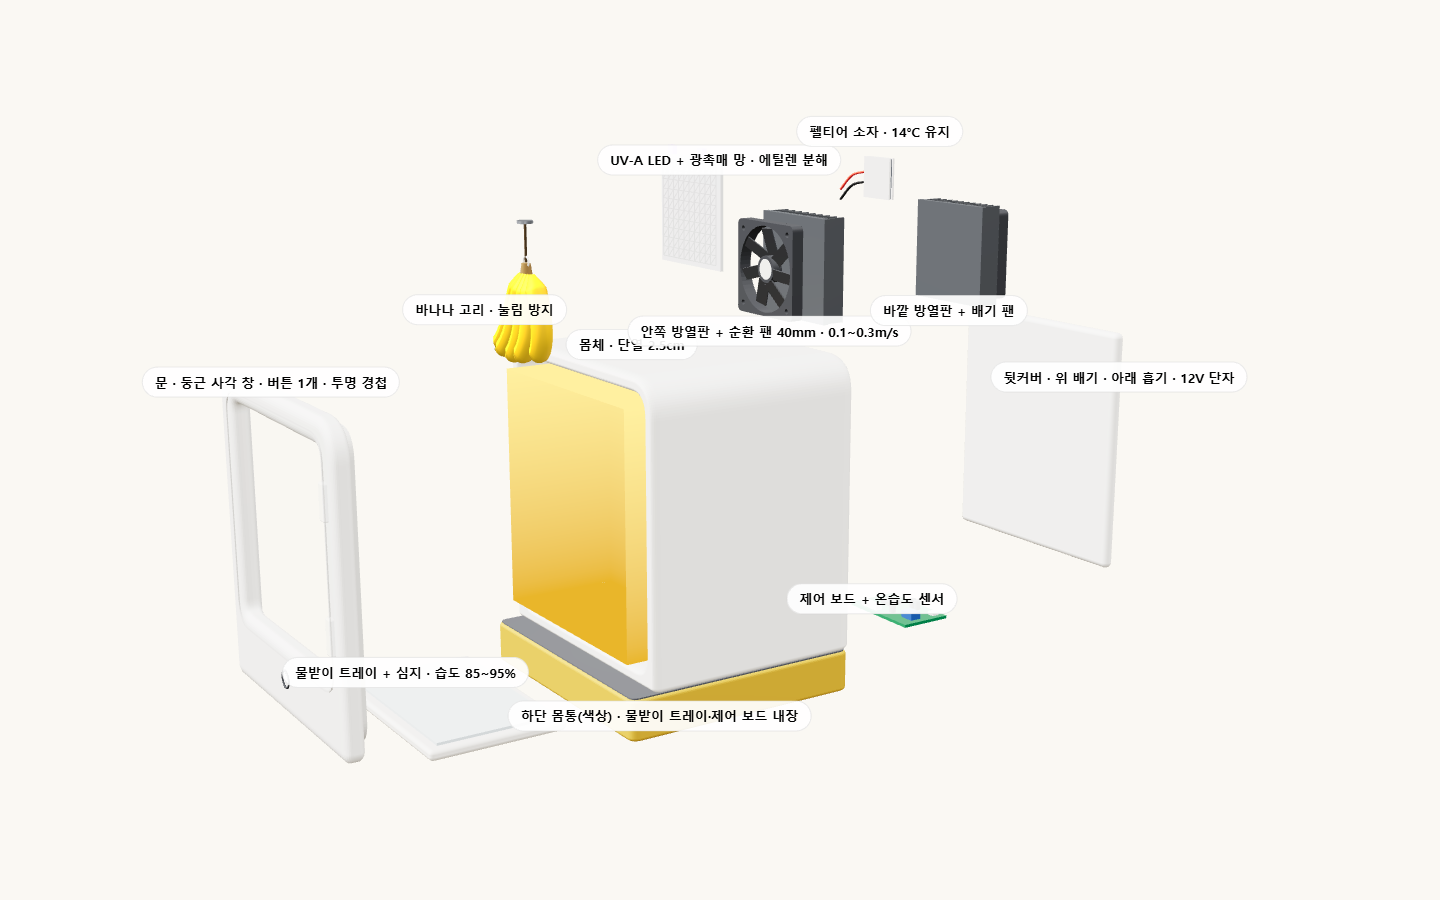
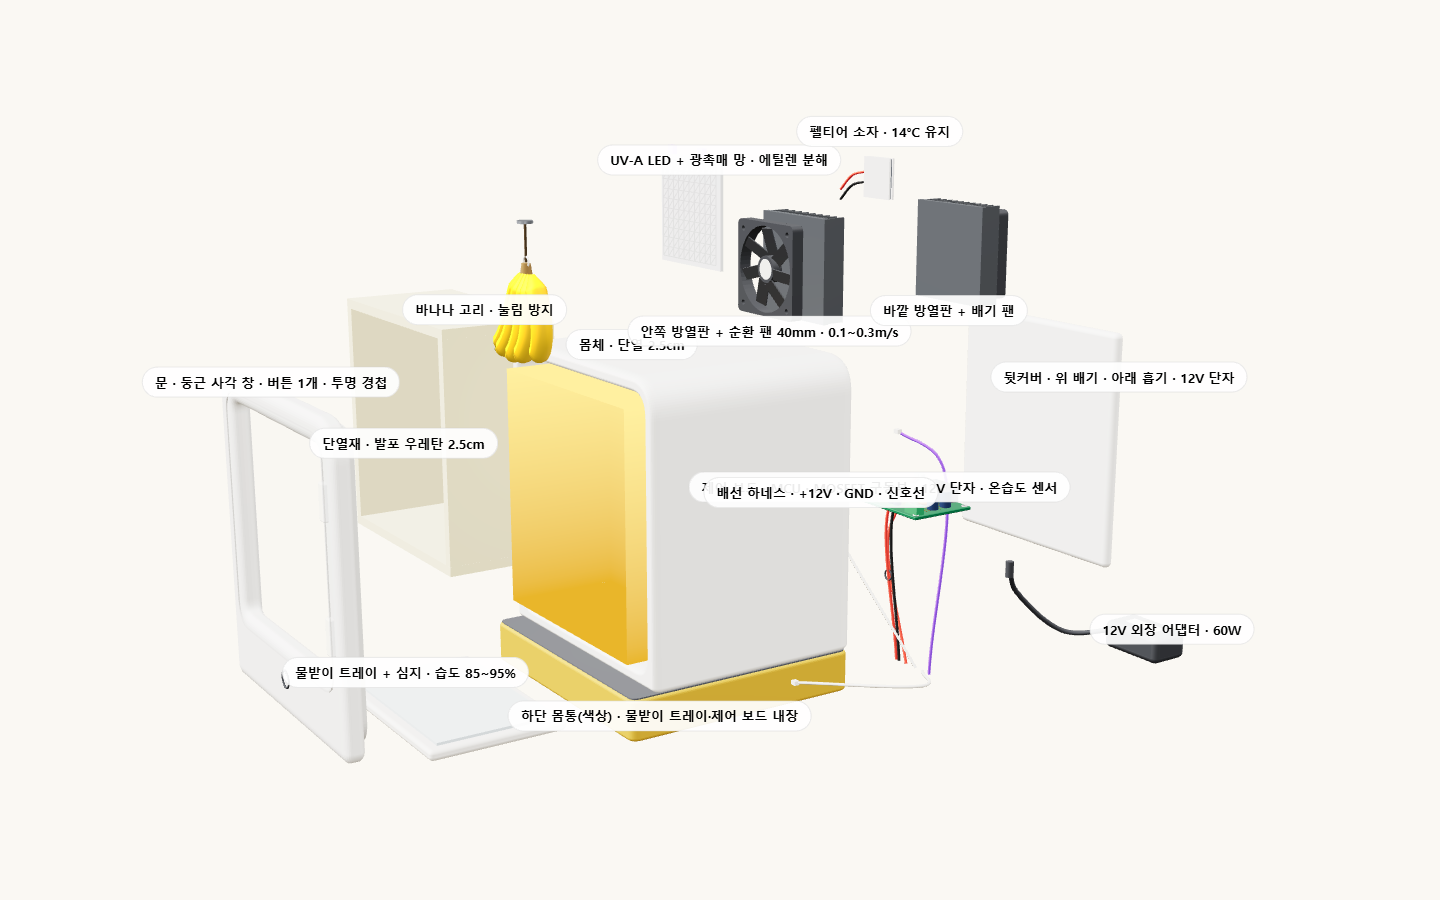
3D 내부: 제어 보드 상세(MCU·MOSFET·방열판·콘덴서·코일·단자대·커넥터·센서), 단열재, 배선 하네스, 12V 어댑터

diff --git a/explode.js b/explode.js
@@ -270,17 +270,107 @@ function fan(size = 0.9, wired = true) {
   g.position.set(0, CY, -D / 2 + 0.06);
   part('뒷커버 · 위 배기 · 아래 흡기 · 12V 단자', g, [0, 0, -3.6], new THREE.Vector3(W / 2 - 0.15, 0.8, 0));
 }
-// 11. 제어 보드 + 온습도 센서
+// 11. 제어 보드 — 실제 기판처럼: 구리 배선, MCU, 전원부(MOSFET+방열판), 콘덴서, 단자대, 커넥터, 온습도 센서
+const PCBM = {
+  board: new THREE.MeshStandardMaterial({ color: 0x1d6b45, roughness: 0.45, metalness: 0.05 }),
+  trace: new THREE.MeshStandardMaterial({ color: 0xc8a24a, roughness: 0.35, metalness: 0.8 }),
+  pad: new THREE.MeshStandardMaterial({ color: 0xd9d9d9, roughness: 0.3, metalness: 0.9 }),
+  ic: new THREE.MeshStandardMaterial({ color: 0x1b1b1d, roughness: 0.5 }),
+  res: new THREE.MeshStandardMaterial({ color: 0xb08a5a, roughness: 0.5 }),
+  cap: new THREE.MeshStandardMaterial({ color: 0x23395d, roughness: 0.4 }),
+  capTop: new THREE.MeshStandardMaterial({ color: 0xcfd3d8, roughness: 0.3, metalness: 0.8 }),
+  term: new THREE.MeshStandardMaterial({ color: 0x2e8b57, roughness: 0.6 }),
+  jst: new THREE.MeshStandardMaterial({ color: 0xf2efe6, roughness: 0.6 }),
+  silk: new THREE.MeshBasicMaterial({ color: 0xf5f5f0 }),
+  ledG: new THREE.MeshStandardMaterial({ color: 0x2bff6a, emissive: 0x18c94a, emissiveIntensity: 1.5 }),
+  coil: new THREE.MeshStandardMaterial({ color: 0xb87333, metalness: 0.7, roughness: 0.35 }),
+  uvw: new THREE.MeshStandardMaterial({ color: 0x8a5cff, roughness: 0.5 }),
+};
+function pcbBoard(w, h) {
+  const g = new THREE.Group();
+  g.add(new THREE.Mesh(new RoundedBoxGeometry(w, h, 0.03, 2, 0.01), PCBM.board));
+  const tr = (x0, y0, x1, y1, t = 0.008) => { const L = Math.hypot(x1 - x0, y1 - y0), m = new THREE.Mesh(new THREE.BoxGeometry(L, t, 0.002), PCBM.trace); m.position.set((x0 + x1) / 2, (y0 + y1) / 2, 0.016); m.rotation.z = Math.atan2(y1 - y0, x1 - x0); g.add(m); };
+  for (let i = 0; i < 9; i++) { const y = -h / 2 + 0.06 + i * (h - 0.12) / 8; tr(-w / 2 + 0.05, y, -0.05, y); tr(-0.05, y, 0.05, y * 0.6); tr(0.05, y * 0.6, w / 2 - 0.08, y * 0.6); }
+  [[-1, -1], [1, -1], [1, 1], [-1, 1]].forEach(([x, y]) => { const r = new THREE.Mesh(new THREE.TorusGeometry(0.022, 0.008, 8, 20), PCBM.pad); r.position.set(x * (w / 2 - 0.04), y * (h / 2 - 0.04), 0.016); g.add(r); });
+  return g;
+}
+{
+  const g = pcbBoard(1.0, 0.62);
+  // MCU (QFP, 사방 핀)
+  const mcu = new THREE.Mesh(new THREE.BoxGeometry(0.14, 0.14, 0.02), PCBM.ic); mcu.position.set(-0.22, 0.08, 0.025); g.add(mcu);
+  for (let i = 0; i < 10; i++) for (const [dx, dy] of [[1, 0], [-1, 0], [0, 1], [0, -1]]) {
+    const pin = new THREE.Mesh(new THREE.BoxGeometry(dx ? 0.025 : 0.005, dx ? 0.005 : 0.025, 0.004), PCBM.pad);
+    const o = -0.06 + i * 0.0133; pin.position.set(-0.22 + (dx ? dx * 0.08 : o), 0.08 + (dy ? dy * 0.08 : o), 0.018); g.add(pin);
+  }
+  const dot = new THREE.Mesh(new THREE.CircleGeometry(0.008, 12), PCBM.silk); dot.position.set(-0.27, 0.13, 0.036); g.add(dot);
+  // 수정 발진자 · 칩 저항/콘덴서
+  const xt = new THREE.Mesh(new RoundedBoxGeometry(0.06, 0.025, 0.02, 2, 0.008), PCBM.pad); xt.position.set(-0.22, -0.04, 0.025); g.add(xt);
+  for (let i = 0; i < 12; i++) { const r = new THREE.Mesh(new THREE.BoxGeometry(0.022, 0.012, 0.008), i % 2 ? PCBM.ic : PCBM.res); r.position.set(-0.42 + (i % 4) * 0.04, -0.06 - Math.floor(i / 4) * 0.04, 0.02); g.add(r); }
+  // 전원부: MOSFET(TO-220) 2개 + 방열판 — 펠티어·팬 PWM 구동
+  [0.12, 0.24].forEach(x => {
+    const body = new THREE.Mesh(new THREE.BoxGeometry(0.08, 0.025, 0.1), PCBM.ic); body.position.set(x, 0.2, 0.065); g.add(body);
+    const tab = new THREE.Mesh(new THREE.BoxGeometry(0.08, 0.008, 0.06), PCBM.pad); tab.position.set(x, 0.216, 0.14); g.add(tab);
+    for (let k = -1; k <= 1; k++) { const lg = new THREE.Mesh(new THREE.BoxGeometry(0.008, 0.008, 0.05), PCBM.pad); lg.position.set(x + k * 0.025, 0.2, 0.02); g.add(lg); }
+  });
+  for (let i = 0; i < 7; i++) { const f = new THREE.Mesh(new THREE.BoxGeometry(0.3, 0.008, 0.14), M.alu); f.position.set(0.18, 0.235 + i * 0.012, 0.09); g.add(f); }
+  // 전해 콘덴서(은색 윗면)
+  [[0.38, 0.12, 0.05], [0.38, -0.02, 0.05], [0.03, -0.18, 0.035], [0.1, -0.18, 0.035]].forEach(([x, y, r]) => {
+    const c = new THREE.Mesh(new THREE.CylinderGeometry(r, r, 0.14, 24), PCBM.cap); c.rotation.x = Math.PI / 2; c.position.set(x, y, 0.085); g.add(c);
+    const t = new THREE.Mesh(new THREE.CircleGeometry(r * 0.9, 24), PCBM.capTop); t.position.set(x, y, 0.156); g.add(t);
+  });
+  // 인덕터(코일)
+  const coil = new THREE.Mesh(new THREE.TorusGeometry(0.045, 0.02, 12, 24), PCBM.coil); coil.position.set(0.24, 0.02, 0.04); g.add(coil);
+  // 12V 입력 단자대(초록, 나사 2개)
+  const tb = new THREE.Mesh(new THREE.BoxGeometry(0.16, 0.08, 0.08), PCBM.term); tb.position.set(0.4, -0.24, 0.055); g.add(tb);
+  [0.36, 0.44].forEach(x => { const sc = new THREE.Mesh(new THREE.CylinderGeometry(0.018, 0.018, 0.01, 16), PCBM.pad); sc.rotation.x = Math.PI / 2; sc.position.set(x, -0.24, 0.1); g.add(sc); });
+  // 커넥터(JST) 6개: 펠티어 · 팬2 · LED · UV · 버튼
+  for (let i = 0; i < 6; i++) { const j = new THREE.Mesh(new THREE.BoxGeometry(0.07, 0.04, 0.05), PCBM.jst); j.position.set(-0.42 + i * 0.085, 0.265, 0.04); g.add(j); }
+  // 온습도 센서(SHT40) · 상태 LED
+  const sht = new THREE.Mesh(new THREE.BoxGeometry(0.05, 0.05, 0.015), PCBM.jst); sht.position.set(-0.4, 0.22, 0.025); g.add(sht);
+  const led = new THREE.Mesh(new THREE.BoxGeometry(0.02, 0.012, 0.01), PCBM.ledG); led.position.set(-0.05, -0.26, 0.022); g.add(led);
+  g.rotation.x = -Math.PI / 2; g.position.set(0, BASE * 0.42, -D / 2 + 0.6);   // 하단 몸통 안 뒤쪽에 눕힘
+  part('제어 보드 · MCU · MOSFET 구동부 · 12V 단자 · 온습도 센서', g, [2.2, 1.9, -0.5], new THREE.Vector3(-0.5, 0.1, 0));
+}
+// 12. 단열재(발포 우레탄) — 겉 몸체와 안쪽 라이너 사이
 {
   const g = new THREE.Group();
-  const pcb = new THREE.Mesh(new THREE.BoxGeometry(0.9, 0.55, 0.03), new THREE.MeshStandardMaterial({ color: 0x1f7a4d, roughness: 0.5 })); g.add(pcb);
-  const chip = new THREE.Mesh(new THREE.BoxGeometry(0.16, 0.16, 0.04), M.dark); chip.position.set(-0.18, 0.05, 0.03); g.add(chip);
-  [[0.05, 0.15], [0.12, 0.15], [0.05, -0.12]].forEach(([x, y]) => { const c = new THREE.Mesh(new THREE.CylinderGeometry(0.035, 0.035, 0.1, 16), M.dark); c.rotation.x = Math.PI / 2; c.position.set(x, y, 0.06); g.add(c); });
-  const conn = new THREE.Mesh(new THREE.BoxGeometry(0.25, 0.08, 0.06), M.ceramic); conn.position.set(-0.2, -0.2, 0.04); g.add(conn);
-  const relay = new THREE.Mesh(new THREE.BoxGeometry(0.16, 0.12, 0.08), new THREE.MeshStandardMaterial({ color: 0x2f5fa8, roughness: 0.4 })); relay.position.set(0.3, -0.08, 0.05); g.add(relay);
-  const sht = new THREE.Mesh(new THREE.BoxGeometry(0.08, 0.08, 0.04), M.ceramic); sht.position.set(0.35, 0.18, 0.03); g.add(sht);
-  g.rotation.x = -Math.PI / 2; g.position.set(0, BASE * 0.55, -D / 2 + 0.55);   // 하단 몸통 안 뒤쪽에 눕힘
-  part('제어 보드 + 온습도 센서', g, [0, -0.1, -2.2], new THREE.Vector3(-0.45, 0, 0));
+  const foam = new THREE.MeshStandardMaterial({ color: 0xf3e6b5, roughness: 0.95 });
+  const iw = W - 0.42, ih = HB - 0.5, t = 0.1, d = 1.15, zc = 0.55;
+  [[iw + 2 * t, t, d, 0, ih / 2 + t / 2, zc], [iw + 2 * t, t, d, 0, -ih / 2 - t / 2, zc], [t, ih, d, -iw / 2 - t / 2, 0, zc], [t, ih, d, iw / 2 + t / 2, 0, zc], [iw + 2 * t, ih + 2 * t, t, 0, 0, -0.05]]
+    .forEach(([w, h, dd, x, y, z]) => { const m = new THREE.Mesh(new THREE.BoxGeometry(w, h, dd), foam); m.position.set(x, CY + y, z); g.add(m); });
+  part('단열재 · 발포 우레탄 2.5cm', g, [-3.0, 0.2, 0.3], new THREE.Vector3(-W / 2, ih / 2 + 0.2, 0.5));
+}
+// 13. 배선 하네스 — 보드에서 펠티어·팬·LED·UV·버튼으로(빨강 +12V, 검정 GND, 흰 신호)
+{
+  const g = new THREE.Group();
+  const by = BASE * 0.5, bz = -D / 2 + 0.6;
+  const runs = [
+    [M.wireR, [[-0.3, by, bz], [-0.3, CY, backZ - 0.05], [0, COOL_Y, backZ - 0.15]]],
+    [M.wireB, [[-0.26, by, bz], [-0.26, CY, backZ - 0.08], [0.04, COOL_Y, backZ - 0.15]]],
+    [M.wireR, [[-0.15, by, bz], [-0.5, CY - 0.4, backZ - 0.2], [-0.45, COOL_Y - 0.4, backZ - 0.3]]],
+    [PCBM.jst, [[0, by, bz], [-1.14, CY, -0.2], [-1.14, H - 0.3, 0.2], [0, H - 0.26, 0.75]]],
+    [PCBM.jst, [[0.1, by, bz], [1.0, BASE + 0.1, 0.2], [0.2, BASE + 0.05, D / 2 - 0.2]]],
+    [PCBM.uvw, [[0.2, by, bz], [0.6, COOL_Y + 0.3, backZ + 0.1], [0.3, COOL_Y + 0.55, backZ + 0.36]]],
+  ];
+  runs.forEach(([m, p]) => {
+    const c = new THREE.CatmullRomCurve3(p.map(v => new THREE.Vector3(...v)));
+    g.add(new THREE.Mesh(new THREE.TubeGeometry(c, 40, 0.014, 6), m));
+    const plug = new THREE.Mesh(new THREE.BoxGeometry(0.06, 0.04, 0.05), PCBM.jst); plug.position.copy(c.getPoint(1)); g.add(plug);
+  });
+  const c0 = new THREE.CatmullRomCurve3(runs[0][1].map(v => new THREE.Vector3(...v)));
+  [0.25, 0.5].forEach(t => { const tie = new THREE.Mesh(new THREE.TorusGeometry(0.05, 0.008, 6, 16), M.dark); tie.position.copy(c0.getPoint(t)); g.add(tie); });
+  part('배선 하네스 · +12V · GND · 신호선', g, [1.2, -0.2, -1.5], new THREE.Vector3(-1.05, CY, -0.2));
+}
+// 14. 12V 외장 어댑터 + DC 케이블
+{
+  const g = new THREE.Group();
+  const brick = new THREE.Mesh(new RoundedBoxGeometry(0.7, 0.28, 0.42, 4, 0.06), M.dark); g.add(brick);
+  const lbl = new THREE.Mesh(new THREE.PlaneGeometry(0.4, 0.14), M.label); lbl.rotation.x = -Math.PI / 2; lbl.position.y = 0.141; g.add(lbl);
+  const c = new THREE.CatmullRomCurve3([new THREE.Vector3(-0.35, 0, 0), new THREE.Vector3(-0.8, -0.1, 0.3), new THREE.Vector3(-0.9, 0.4, 0.9), new THREE.Vector3(-0.7, 0.75, 1.2)]);
+  g.add(new THREE.Mesh(new THREE.TubeGeometry(c, 40, 0.025, 8), M.dark));
+  const plug = new THREE.Mesh(new THREE.CylinderGeometry(0.04, 0.04, 0.16, 16), M.dark); plug.position.copy(c.getPoint(1)); g.add(plug);
+  g.position.set(0.9, 0.14, -D / 2 - 0.9);
+  part('12V 외장 어댑터 · 60W', g, [1.2, 0, -2.2], new THREE.Vector3(0.35, 0.2, 0));
 }
 
 /* airflow arrows (show in assembled state) */
@@ -337,6 +427,8 @@ function frame(now) {
   const dist = 10 + e * 6.5;
   camera.position.set(Math.sin(ang) * dist, 1.2 + e * 3.4, Math.cos(ang) * dist);
   camera.lookAt(0, -0.05 + e * 0.6, -e * 0.6);
+  const fk = new URLSearchParams(location.search).get('focus');   // 부품 가까이 보기(캡처용): ?p=0.6&focus=제어
+  if (fk) { const pt = parts.find(q => q.el.textContent.includes(fk)); if (pt) { const c = new THREE.Box3().setFromObject(pt.obj).getCenter(new THREE.Vector3()); camera.position.set(c.x + 1.0, c.y + 1.3, c.z + 1.0); camera.lookAt(c); } }
 
   // spin fans
   product.traverse(o => { if (o.userData.spin) o.rotation.z += dt * (2 + 10 * (1 - e)); });
